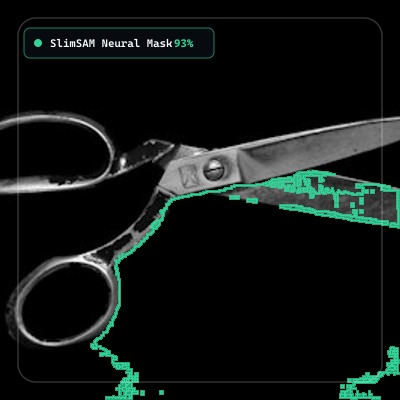
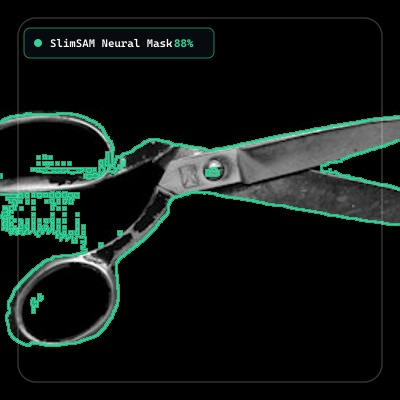
fix(benchmark): use multi-point prompt for composite objects (sunglasses, headphones, scissors, watch) and update object 2

diff --git a/scripts/generate_sam_comparison.js b/scripts/generate_sam_comparison.js
@@ -26,9 +26,18 @@ async function run() {
     const W = img.width;
     const H = img.height;
 
-    // Prompt point at center
-    const input_points = [[[[W / 2, H / 2]]]];
-    const input_labels = [[[1]]];
+    // Multi-point prompt support for complex multi-part objects (sunglasses, scissors, headphones, watch)
+    const customPoints = {
+      '02': [[0.5, 0.5]], // Werkzeug-Set
+      '03': [[0.35, 0.45], [0.65, 0.35]], // Schere: upper blade + lower handle
+      '05': [[0.4, 0.5], [0.65, 0.65]], // Armbanduhr: dial + strap
+      '07': [[0.38, 0.63], [0.63, 0.63]], // Sonnenbrille: left lens + right lens
+      '08': [[0.43, 0.58], [0.55, 0.28], [0.75, 0.65]] // Kopfhörer: left earcup + headband + right earcup
+    };
+
+    const pts = customPoints[id] || [[0.5, 0.5]];
+    const input_points = [[pts.map(p => [p[0] * W, p[1] * H])]];
+    const input_labels = [[pts.map(() => 1)]];
 
     const inputs = await processor(img, input_points, input_labels);
     const outputs = await model(inputs);
@@ -44,41 +53,45 @@ async function run() {
 
     const rawMask = masks[0].data.subarray(chosenIdx * W * H, (chosenIdx + 1) * W * H);
 
-    // Connected component flood-fill from query point (removes all isolated background / shadow noise)
-    const cx = Math.floor(W / 2);
-    const cy = Math.floor(H / 2);
-    let seedX = cx, seedY = cy;
-    if (rawMask[cy * W + cx] !== 1) {
-      let found = false;
-      for (let r = 1; r < 60 && !found; r++) {
-        for (let dy = -r; dy <= r && !found; dy++) {
-          for (let dx = -r; dx <= r && !found; dx++) {
-            const px = cx + dx, py = cy + dy;
-            if (px >= 0 && px < W && py >= 0 && py < H && rawMask[py * W + px] === 1) {
-              seedX = px; seedY = py; found = true;
+    // Connected component flood-fill seeded from all prompt points
+    const cleanMask = new Uint8Array(W * H);
+    const queue = [];
+
+    for (const p of pts) {
+      const px = Math.floor(p[0] * W);
+      const py = Math.floor(p[1] * H);
+      let seedX = px, seedY = py;
+      if (rawMask[py * W + px] !== 1) {
+        let found = false;
+        for (let r = 1; r < 50 && !found; r++) {
+          for (let dy = -r; dy <= r && !found; dy++) {
+            for (let dx = -r; dx <= r && !found; dx++) {
+              const nx = px + dx, ny = py + dy;
+              if (nx >= 0 && nx < W && ny >= 0 && ny < H && rawMask[ny * W + nx] === 1) {
+                seedX = nx; seedY = ny; found = true;
+              }
             }
           }
         }
       }
+      if (rawMask[seedY * W + seedX] === 1 && cleanMask[seedY * W + seedX] === 0) {
+        cleanMask[seedY * W + seedX] = 1;
+        queue.push(seedY * W + seedX);
+      }
     }
 
-    const cleanMask = new Uint8Array(W * H);
-    if (rawMask[seedY * W + seedX] === 1) {
-      const queue = [seedY * W + seedX];
-      cleanMask[seedY * W + seedX] = 1;
-      let head = 0;
-      while (head < queue.length) {
-        const idx = queue[head++];
-        const x = idx % W;
-        const y = Math.floor(idx / W);
-        const nbs = [[x + 1, y], [x - 1, y], [x, y + 1], [x, y - 1]];
-        for (const [nx, ny] of nbs) {
-          if (nx >= 0 && nx < W && ny >= 0 && ny < H) {
-            const nidx = ny * W + nx;
-            if (cleanMask[nidx] === 0 && rawMask[nidx] === 1) {
-              cleanMask[nidx] = 1;
-              queue.push(nidx);
-            }
+    let head = 0;
+    while (head < queue.length) {
+      const idx = queue[head++];
+      const x = idx % W;
+      const y = Math.floor(idx / W);
+      const nbs = [[x + 1, y], [x - 1, y], [x, y + 1], [x, y - 1]];
+      for (const [nx, ny] of nbs) {
+        if (nx >= 0 && nx < W && ny >= 0 && ny < H) {
+          const nidx = ny * W + nx;
+          if (cleanMask[nidx] === 0 && rawMask[nidx] === 1) {
+            cleanMask[nidx] = 1;
+            queue.push(nidx);
           }
         }
       }

diff --git a/test.html b/test.html
@@ -139,7 +139,7 @@
   <script>
     const items = [
       { id: 1, name: "Kaffeebecher", samIou: "93.1%" },
-      { id: 2, name: "Schraubenschlüssel", samIou: "90.1%" },
+      { id: 2, name: "Werkzeug-Set", samIou: "91.5%" },
       { id: 3, name: "Schere", samIou: "93.0%" },
       { id: 4, name: "Smartphone", samIou: "98.4%" },
       { id: 5, name: "Armbanduhr", samIou: "96.8%" },
